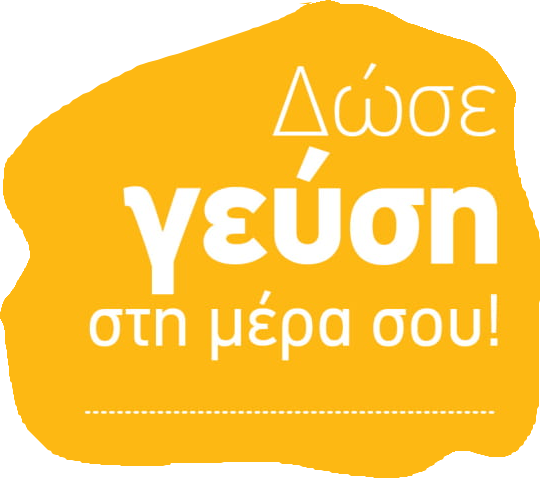
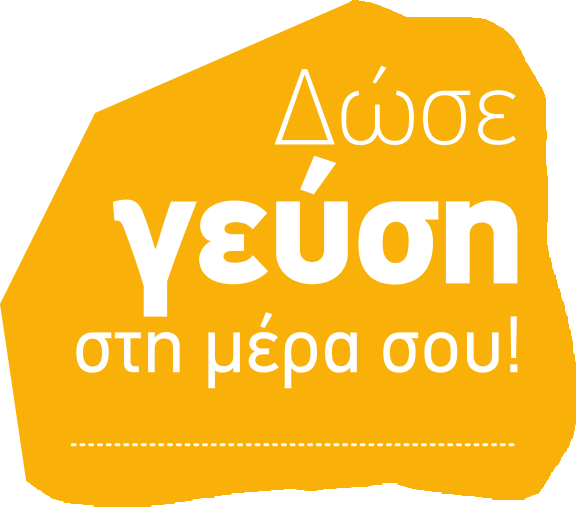
update

diff --git a/index.html b/index.html
@@ -23,9 +23,9 @@
 
   <div class="container pt-5">
     <div class="text-center">
-      <img src="img/logo.png" class="img-fluid" alt="ginger all day">
+      <img src="img/logo-card.png" class="img-fluid rounded" alt="ginger all day">
     </div>
-    <div class="card mt-5 bg-warning border-0 card-cap">
+    <div class="card bg-warning border-0 card-cap mt-1">
       <div class="card-body">
         <img src="img/tag.png" class="img-fluid" alt="ginger all day">
         Λαχταριστές ομελέτες από το πρωί,<br>
@@ -36,15 +36,15 @@
         έρχονται και στο χώρο σου!
       </div>
     </div>
-    <div class="card mt-1 mb-5 bg-white border-0">
+    <div class="card mt-1 mb-5 bg-white border-0 bg-phone">
       <div class="card-body p-0">
-        <div class="text-center pt-5">
-          <span class="btn btn-warning btn-lg" data-glf-cuid="31559792-08d4-4547-bd64-9d955fa58e9f" data-glf-ruid="ee9dccdf-eeb6-40f5-8dd4-0f6da8c518e3">
+        <div class="text-right pt-5 pr-5">
+          <h4 class="bg-white px-4 py-2 border border-dark d-inline-block" style="width:305px;cursor:pointer;" data-glf-cuid="31559792-08d4-4547-bd64-9d955fa58e9f" data-glf-ruid="ee9dccdf-eeb6-40f5-8dd4-0f6da8c518e3">
             <strong>δείτε τον κατάλογο και παραγγείλτε online</strong>
-          </span>
+          </h4>
           <script src="https://www.fbgcdn.com/widget/js/ewm2.js" defer async ></script>
         </div>
-        <div class="mt-5 text-center">
+        <div class="mt-5 text-center d-none">
           <div class="display-1 bg-black" style="line-height:1;"><div>22210<br>60019</div></div>
           <h3 class="my-5">Ερμού 14-16 ΧΑΛΚΙΔΑ</h3>
         </div>

diff --git a/css/main.css b/css/main.css
@@ -10,7 +10,8 @@ body {
 }
 
 .card-cap {
-  background: url('../img/cap.png') left 100px no-repeat #fdb813 !important;
+  background: url('../img/cap.png') -50px 0 no-repeat #f9b10b !important;
+  background-size: 480px !important;
   padding-left: 400px;
   padding-bottom: 50px;
   font-size: 1.2em;
@@ -24,4 +25,14 @@ body {
   padding: 5px 59px;
   display: inline-block;
   background: white;
+}
+
+.bg-phone {
+  height: 500px;
+  background: url('../img/phone.png') center;
+  background-size: cover;
+}
+
+.border-dark {
+  border-width: 2px !important;
 }
